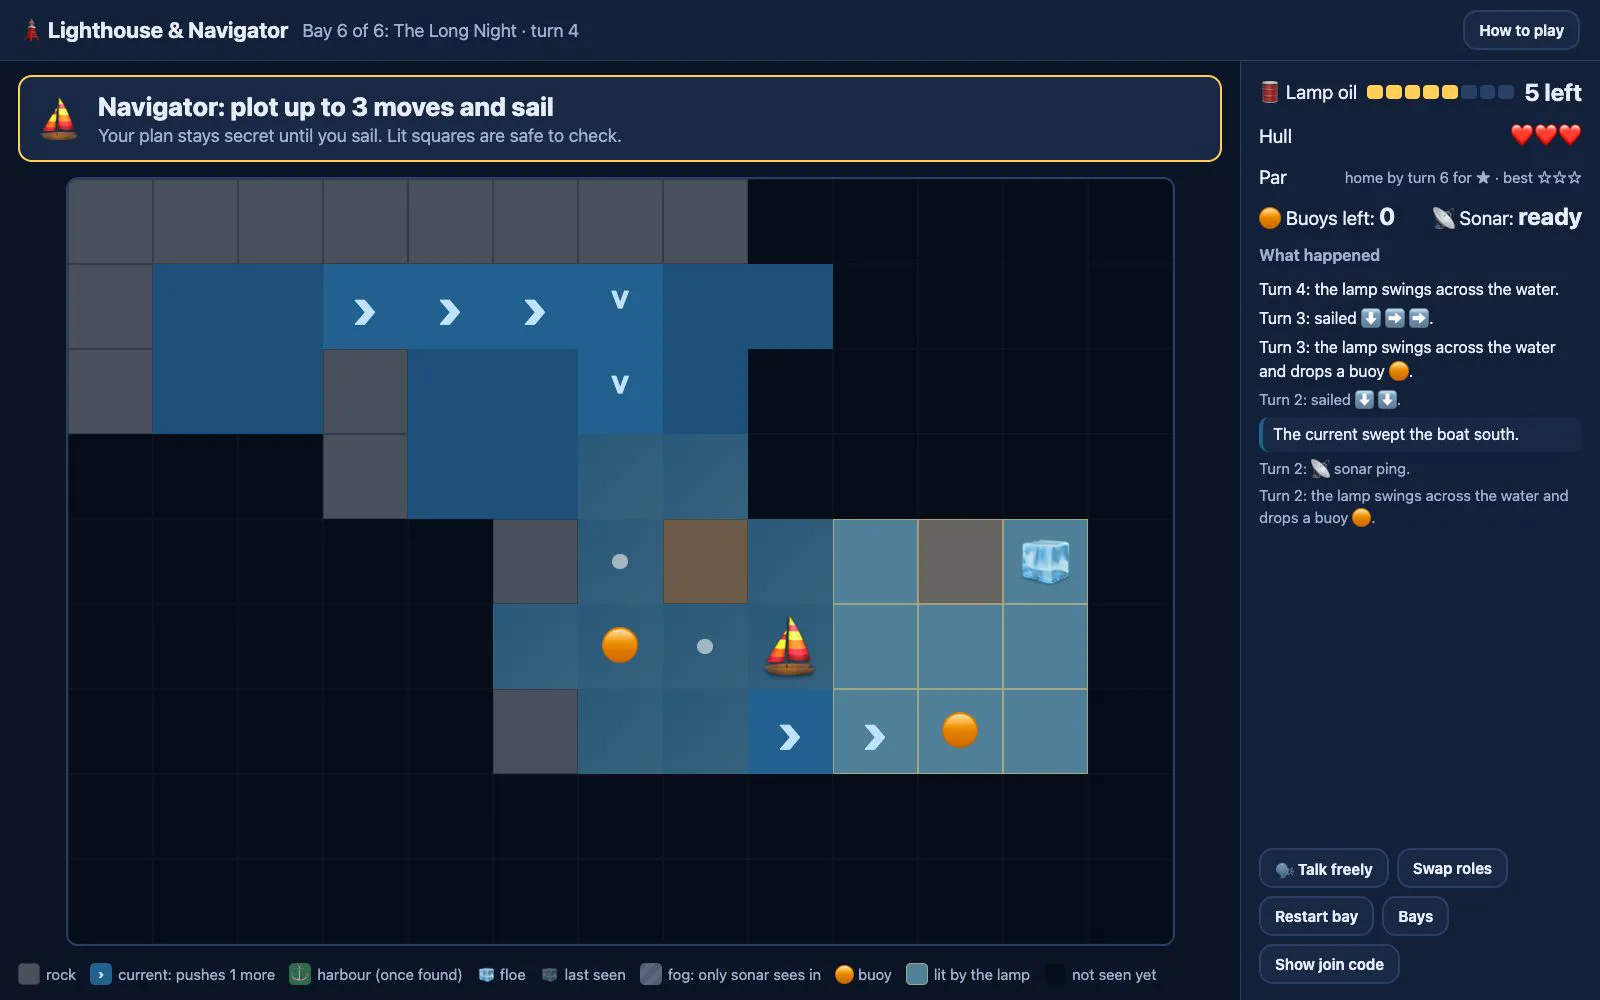
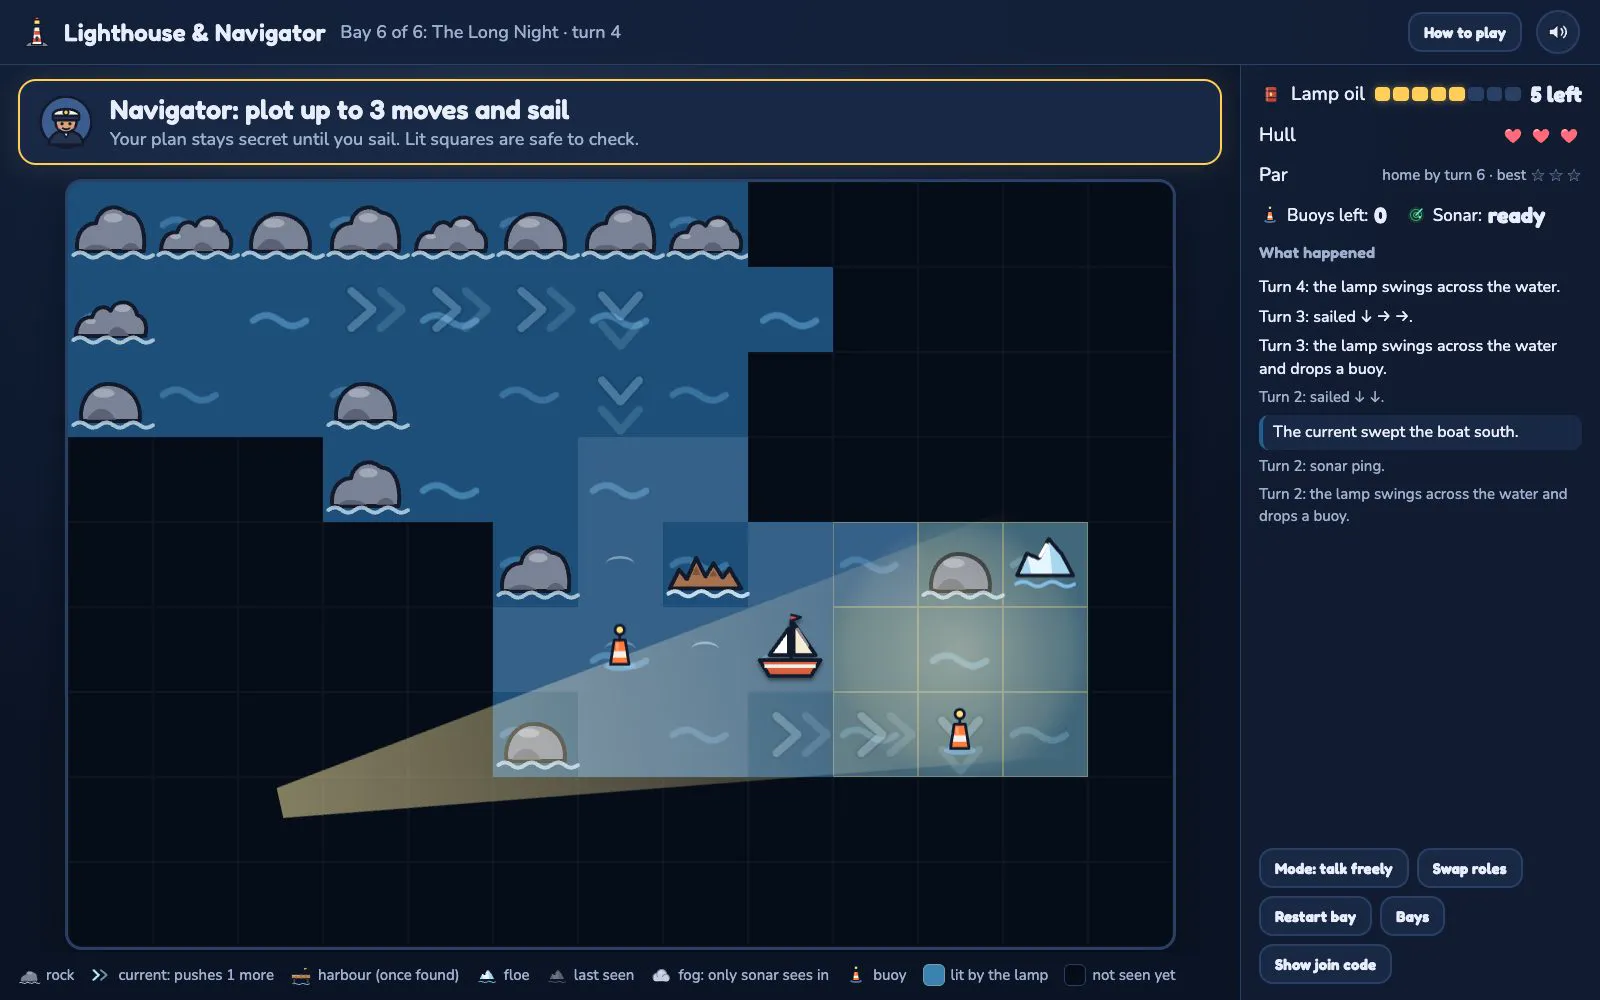
Refresh Co-op for Lighthouse's new art; loop with a dip through dark instead of a hard cut

diff --git a/CLAUDE.md b/CLAUDE.md
@@ -52,7 +52,7 @@ To fix a hole, add or remove a `wide` or `full` tile, or move one. Don't add fil
 - The page fetches no video until the stills have loaded. On desktop it then pre-downloads the loops of tiles near the screen one at a time, so hovers start instantly.
 - They must be perfectly smooth: no dropped or frozen frames, no hitches and no jump where the loop restarts. `capture.mjs` records them **stepped** by default. It freezes the page's clock (`VCLOCK` in `tools/lib.mjs`) and renders exactly 1/30s of game time per frame, so GPU hiccups can't show. Use `clip: { realtime: true }` only for a game the virtual clock can't drive, such as logic in a Worker or CSS-animation-driven motion. `node tools/smooth.mjs` must pass, and `check.mjs` runs it.
 - Under the stepped clock, input sent from Node during a clip arrives on real time, not game time. To time input, call `window.__vclock.freeze()` in `beforeClip` and schedule it with in-page `setTimeout` (see `endo` and `cards`). The clock only steps the top window, so games in iframes must freeze each same-origin iframe's `__vclock` and forward `step()` into it (see `little-guys` and `finger-frolic`).
-- Crossfade them into seamless loops, except text- or UI-heavy games (Co-op, Wayword), where the dissolve looks ghosted. Many small fast-moving things also ghost during the dissolve: slow the game down (Picnic Ant Raid runs at 1×, not 2×) or shorten `clip.fade`.
+- Crossfade them into seamless loops. Text- or UI-heavy games ghost during the dissolve: either skip it (Wayword) or use `clip: { transition: 'fadeblack' }`, a quick dip through dark that never shows both ends at once (Co-op). Many small fast-moving things also ghost during the dissolve: slow the game down (Picnic Ant Raid runs at 1×, not 2×) or shorten `clip.fade`.
 - Fast-forwarding through a game's own debug hooks is fine, because it's still the real simulation. Staged data, such as Koi Kanban's example tasks, is fine too.
 
 **Credits:** third-party media that appears in a still or clip gets a credit in the footer.
